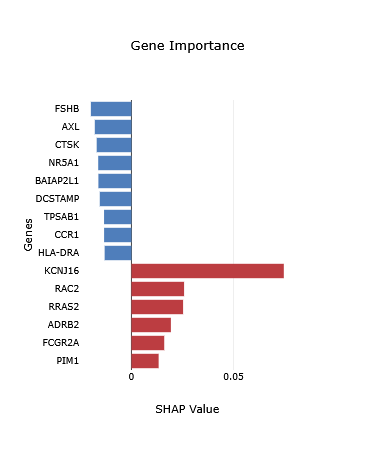
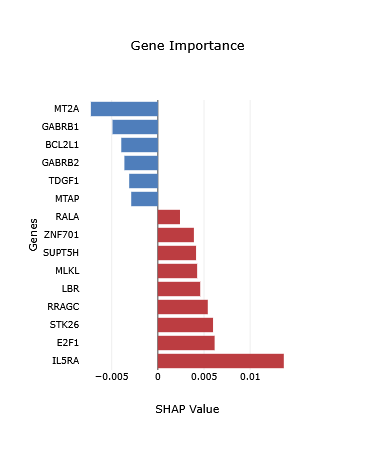
Fix InferenceTable float numbers, drugs filter list and bar plot sorting

Changed region(s): [[0.2353, 0.2178, 0.7647, 0.8711], [0.0588, 0.2178, 0.2059, 0.8089]]

diff --git a/frontend/src/components/InferenceTable/InferenceTable.jsx b/frontend/src/components/InferenceTable/InferenceTable.jsx
@@ -49,6 +49,17 @@ const InferenceTable = ({ inferenceData, setShapData, setDrugKey, setCellKey, se
       .map((drug) => ({ label: drug, value: drug }))
       .sort((a, b) => a.label.localeCompare(b.label)); // Sort by the label property
 
+    // Filter the drugs available only in the selected dataset
+    const filteredDrugs = selectedDatasets.length > 0
+    ? [...new Set(inferenceData
+        .filter((inference) => selectedDatasets.includes(inference.dataset))
+        .map((inference) => inference.DrugName?.trim())
+    )]
+        .filter((drug) => drug)
+        .map((drug) => ({ label: drug, value: drug }))
+        .sort((a, b) => a.label.localeCompare(b.label))
+    : uniqueDrugs;
+
     // Extract unique dataset
     const datasets = [
       ...new Set(inferenceData.map((inference) => inference.dataset?.trim()))
@@ -83,8 +94,19 @@ const InferenceTable = ({ inferenceData, setShapData, setDrugKey, setCellKey, se
 
 
   const dynamicColumns = visibleColumns.map((col) => {
-    return <Column key={col.field} field={col.field} header={col.header} sortable />;
- });
+    return (
+        <Column
+            key={col.field}
+            field={col.field}
+            header={col.header}
+            sortable
+            body={(rowData) => {
+                const value = rowData[col.field];
+                return typeof value === "number" ? value.toFixed(4) : value;
+            }}
+        />
+    );
+  });
 
  const onRowClick = (e) => {
     const clickedRowData = e.data;
@@ -184,7 +206,7 @@ const exportCSV = (tableRef, selectionOnly) => {
             />
           <MultiSelect
                 value={selectedDrugs} // Correctly tied to state
-                options={uniqueDrugs} // Ensure uniqueDrugs has correct structure
+                options={filteredDrugs} // Ensure uniqueDrugs has correct structure
                 onChange={(e) => setSelectedDrugs(e.value)} // Update state
                 optionLabel="label"
                 optionValue="value"
@@ -192,16 +214,7 @@ const exportCSV = (tableRef, selectionOnly) => {
                 placeholder="Filter by drug"
                 style={{ width: '200px', marginRight: '10px' }}
             />
-{/*              <MultiSelect */}
-{/*                 value={selectedTissues} // Correctly tied to state */}
-{/*                 options={uniqueTissue} // Ensure uniqueDrugs has correct structure */}
-{/*                 onChange={(e) => setSelectedTissues(e.value)} // Update state */}
-{/*                 optionLabel="label" */}
-{/*                 optionValue="value" */}
-{/*                 display="chip" */}
-{/*                 placeholder="Filter by tissue" */}
-{/*                 style={{ width: '200px', marginRight: '10px' }} */}
-{/*             /> */}
+
             </div>
       </div>
       <div className="col" style={{ display: 'flex', alignItems: 'center', justifyContent: 'flex-end' }}>

diff --git a/frontend/src/components/BarPlot/BarPlot.jsx b/frontend/src/components/BarPlot/BarPlot.jsx
@@ -2,30 +2,15 @@ import React, { useMemo } from 'react';
 import Plot from 'react-plotly.js';
 
 const BarPlot = ({ jsonData }) => {
-
-  // Process the jsonData to separate positive and negative values
   const processedData = useMemo(() => {
-    const geneUp = [];
-    const valuesUp = [];
-    const geneDown = [];
-    const valuesDown = [];
+    const geneList = Object.entries(jsonData).map(([gene, value]) => ({ gene, value }));
 
-    for (const [key, value] of Object.entries(jsonData)) {
-      if (value > 0) {
-        geneUp.push({ gene: key, value });
-      } else {
-        geneDown.push({ gene: key, value });
-      }
-    }
-
-    geneUp.sort((a, b) => a.gene.localeCompare(b.value)).reverse();
-    geneDown.sort((a, b) => a.gene.localeCompare(b.value)).reverse();
+    // Sort from largest to smallest (negative values first, then positive ones)
+    geneList.sort((a, b) => a.value - b.value);
 
     return {
-      geneUp: geneUp.map(item => item.gene),
-      valuesUp: geneUp.map(item => item.value),
-      geneDown: geneDown.map(item => item.gene),
-      valuesDown: geneDown.map(item => item.value),
+      genes: geneList.map(item => item.gene),
+      values: geneList.map(item => item.value),
     };
   }, [jsonData]);
 
@@ -40,6 +25,7 @@ const BarPlot = ({ jsonData }) => {
     yaxis: {
       automargin: true,
       title: { text: 'Genes' },
+      autorange: 'reversed',
     },
     font: {
       size: 9,
@@ -52,36 +38,22 @@ const BarPlot = ({ jsonData }) => {
     {
       type: 'bar',
       orientation: "h",
-      x: processedData.valuesUp,
-      y: processedData.geneUp,
-      base: 0,
+      x: processedData.values,
+      y: processedData.genes,
       marker: {
-        color: '#BC3D41',
-      },
-      name: 'SHAP Values',
-    },
-    {
-      type: 'bar',
-      orientation: "h",
-      x: processedData.valuesDown,
-      y: processedData.geneDown,
-      base: 0,
-      marker: {
-        color: '#4F7EBB',
+        color: processedData.values.map(value => (value > 0 ? '#BC3D41' : '#4F7EBB')),
       },
       name: 'SHAP Values',
     },
   ];
 
   return (
-    <>
-      <Plot
-        data={data}
-        useResizeHandler={true}
-        style={{ width: '100%', height: '100%' }}
-        layout={layout}
-      />
-    </>
+    <Plot
+      data={data}
+      useResizeHandler={true}
+      style={{ width: '100%', height: '100%' }}
+      layout={layout}
+    />
   );
 };
 

diff --git a/frontend/src/pages/HelpPage/HelpPage.js b/frontend/src/pages/HelpPage/HelpPage.js
@@ -138,7 +138,8 @@ const handleDownload = () => {
                       className="center-help shrink img-fluid mb-5"
                     />
                <p className="fs-1 text-justify mb-4">
-                Users can click on a specific row to view more detailed information about the prediction, including the SHAP and predicted response distribution plots. These visuals illustrate the importance of the top genes and drugs and the distribution of the predicted responses. The selected row will be highlighted with a blue background. Click the replay icon to reset the selection and hide the SHAP plot and distribution plots.
+                Users can access additional information by clicking on a specific prediction row in the table, including a graph displaying the top 15 genes ranked by their absolute SHAP importance. In this graph, blue bars represent genes that lower the IC50 value (indicating increased drug sensitivity). In contrast, red bars represent genes that raise the IC50 value (indicating decreased sensitivity).
+                <br/>Additionally, we utilize kernel density estimation (KDE) plots to visualize two complementary distributional features of the predictions. The first plot compares a drug's predicted response to that of other drugs tested on the same cell line; a red line on the left side of the distribution indicates higher efficacy. The second plot examines the drug's behaviour across multiple cell lines, helping to identify instances where consistently low IC50 values may suggest general toxicity instead of selective effectiveness. <br/>Click the replay icon to reset the selection and hide the SHAP plot and distribution plots.
               </p>
                 <div className="row">
                 <div className="col-md-12 text-center">
